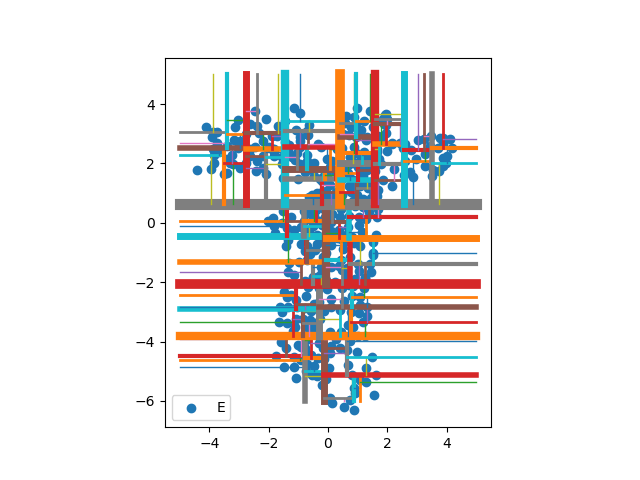
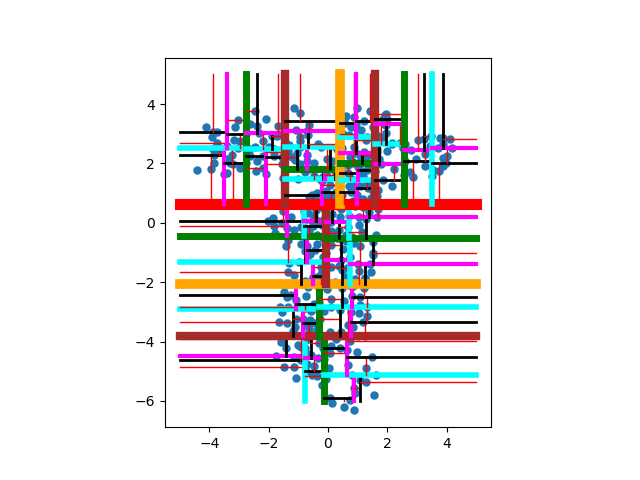
feat: Implement nearest neighbor search
Implement nearest neighbor search recursive method inside Tree class.
Test it on ecobici dataset.

Changed region(s): [[0.25, 0.125, 0.75, 0.875], [0.2812, 0.8438, 0.3125, 0.875]]

diff --git a/tree.py b/tree.py
@@ -202,3 +202,116 @@ class Tree:
 
         # once it finishes recursive calls, return subtree's root node
         return node
+
+    def __dist(self, point1: List[float], point2: List[float]) -> float:
+        """Compute Euclidean distance between two 2d-points.
+        ------------------------------------------------------------------------
+        Args:
+            point1: first point's coords
+            point2: second point's coords
+        Returns:
+            dist: Euclidean distance between point1 and point2"""
+        # cast to numpy arrays
+        point1, point2 = np.array(point1), np.array(point2)
+        dist = np.sqrt(np.sum((point1 - point2)**2)) # compute distance
+
+        return dist
+
+    def __min_dist_region(self, point: List[float], node: TreeNode):
+        """Function to compute minimum distance from a point to the rectangular
+        region defined by a 2d-tree splitting node.
+        ------------------------------------------------------------------------
+        Args:
+            point: (2,)-shape list containing point of interest xy coordinates
+            node: splitting node whose rectangular region is to be considered
+        Returns:
+            dist_min: minimum distance from point to region defined by node"""
+        if node == None:
+            return math.inf
+
+        xp, yp = point
+        xmin, xmax = node.xmin, node.xmax
+        ymin, ymax = node.ymin, node.ymax
+
+        xin_reg = (xmin <= xp and xp <= xmax) # is xp in [xmin, xmax]?
+        yin_reg = (ymin <= yp and yp <= ymax) # is yp in [ymin, ymax]?
+
+        if xin_reg:
+            dist_min = min(np.abs(yp - ymin), np.abs(yp - ymax))
+        elif yin_reg:
+            dist_min = min(np.abs(xp - xmin), np.abs(xp - xmax))
+        else: # point does not intersect neither [xmin, xmax] nor [ymin, ymax]
+            if xp < xmin:
+                if yp < ymin:
+                    dist_min = self.__dist([xp, yp], [xmin, ymin])
+                else:
+                    dist_min = self.__dist([xp, yp], [xmin, ymax])
+            else:
+                if yp < ymin:
+                    dist_min = self.__dist([xp, yp], [xmax, ymin])
+                else:
+                    dist_min = self.__dist([xp, yp], [xmax, ymax])
+
+        return dist_min
+
+    def nearest_neighbor(
+            self, 
+            query: List[float], 
+            node: TreeNode,
+            dmin: int = math.inf,
+            nn: TreeNode = None) -> TreeNode:
+        """Given a query node, find nearest neighbor among the subtree nodes.
+        ------------------------------------------------------------------------
+        Args:
+            query: list of query coords
+            node: subtree node
+            dmin: current nearest distance
+            nn: current nearest neighbor node
+        Returns:
+            nearest: nearest neighbor to query node in subtree rooted at node"""
+        # compute distance from query to node and update dmin if applicable
+        xq, yq = query
+        if node != None:
+            d = self.__dist([xq, yq], [node.x, node.y])
+            if d < dmin:
+                dmin = d
+                nn = node
+
+            # find where query is located with respect to subtree root node
+            if node.split_x == True:
+                if xq <= node.x: # explore left subtree
+                    dmin, nn = self.nearest_neighbor(query, node.left,
+                                                     dmin=dmin, nn=nn)
+                    # compute min distance to region defined by right node
+                    dist_region = self.__min_dist_region(query, node.right)
+                    if dist_region < dmin:
+                        # explore right subtree
+                        dmin, nn = self.nearest_neighbor(query, node.right,
+                                                         dmin=dmin, nn=nn)
+                else: # explore right subtree
+                    dmin, nn = self.nearest_neighbor(query, node.right, 
+                                                     dmin=dmin, nn=nn)
+                    dist_region = self.__min_dist_region(query, node.left)
+                    if dist_region < dmin:
+                        # explore left subtree
+                        dmin, nn = self.nearest_neighbor(query, node.left,
+                                                         dmin=dmin, nn=nn)
+            else:
+                if yq <= node.y:
+                    dmin, nn = self.nearest_neighbor(query, node.left,
+                                                     dmin=dmin, nn=nn)
+                    dist_region = self.__min_dist_region(query, node.right)
+                    if dist_region < dmin:
+                        # explore right subtree
+                        dmin, nn = self.nearest_neighbor(query, node.right,
+                                                         dmin=dmin, nn=nn)
+                else:
+                    dmin, nn = self.nearest_neighbor(query, node.right,
+                                                     dmin=dmin, nn=nn)
+                    dist_region = self.__min_dist_region(query, node.left)
+                    if dist_region < dmin:
+                        # explore left subtree
+                        dmin, nn = self.nearest_neighbor(query, node.left,
+                                                         dmin=dmin, nn=nn)
+
+        return dmin, nn

diff --git a/ecobici.py b/ecobici.py
@@ -3,7 +3,7 @@ import math
 import matplotlib.pyplot as plt
 import numpy as np
 import pandas as pd
-from typing import Tuple
+from typing import List, Tuple
 
 import tree as kd
 
@@ -24,25 +24,42 @@ def latlon_to_global(coords: np.ndarray) -> Tuple[float]:
 
     return x, y
 
-def draw_subtree(node: kd.TreeNode, s: int) -> None:
-    if node.left != None:
-        draw_subtree(node.left, s + 1)
-    # draw current node as a line segment
+colors = ['red', 'orange', 'brown', 'green', 'cyan', 'magenta', 'black', 'gray']
+
+def draw_subtree(node: kd.TreeNode, s: int, color: str) -> None:
     width = 8 - s
+    if node.left != None:
+        draw_subtree(node.left, s + 1, color=colors[(s + 1) % 7])
+    # draw current node as a line segment
     if width > 0:
         if node.split_x == True:
             plt.plot(2 * [node.x], [max(-6, node.ymin), min(node.ymax, 5)],
-                     linewidth=width)
+                     linewidth=width, color=color)
         else:
             plt.plot([max(-5, node.xmin), min(node.xmax, 5)], 2 * [node.y],
-                     linewidth=width)
+                     linewidth=width, color=color)
 
     if node.right != None:
-        draw_subtree(node.right, s + 1)
+        draw_subtree(node.right, s + 1, color=colors[(s + 1) % 7])
 
 def draw(tree: kd.Tree) -> None:
-    draw_subtree(tree.root, 0)
-                
+    draw_subtree(tree.root, 0, colors[0])
+
+
+def plot_random(n: int = 5) -> List[np.ndarray]:
+    """Plots random 2d-points sampled from a uniform distribution.
+    ----------------------------------------------------------------------------
+    Args:
+        n: number of random points
+    Returns:
+        points: List of two (n,)-shape arrays containing pairs of coords"""
+    xs = np.random.uniform(low=-4, high=4, size=n)            
+    ys = np.random.uniform(low=-6, high=5, size=n)
+
+    # plot points
+    plt.scatter(xs, ys, color='green', linewidth=0.05)
+
+    return [xs, ys]
 
 # read data
 df = pd.read_json('data/station_information.json')
@@ -56,13 +73,32 @@ lat_mean = np.average(station_pos[:, 1])
 locs_bike = np.apply_along_axis(latlon_to_global, 1, station_pos)
 
 # plot station positions
-plt.scatter(locs_bike[:, 0], locs_bike[:, 1])
+plt.figure()
+plt.scatter(locs_bike[:, 0], locs_bike[:, 1], linewidth=0.05)
 plt.gca().set_aspect('equal', adjustable='box')
 plt.legend('Ecobici Stations')
 plt.savefig('out/station_locations.png')
 
+# plot 2d-tree
+plt.figure()
 # create 2d-tree using ecobike data
 tree = kd.Tree(locs_bike[:, 0], locs_bike[:, 1])
-#plt.gca().set_aspect('equal', adjustable='box')
+plt.scatter(locs_bike[:, 0], locs_bike[:, 1], linewidth=0.05)
+plt.gca().set_aspect('equal', adjustable='box')
 draw(tree)
 plt.savefig('out/tree.png')
+
+# plot query points and their nearest neighbors
+plt.figure()
+plt.scatter(locs_bike[:, 0], locs_bike[:, 1], linewidth=0.05)
+plt.gca().set_aspect('equal', adjustable='box')
+points = plot_random(n=30)
+# compute and plot nearest neighbor for all random points
+nearest_neighbors = []
+for query in zip(points[0], points[1]):
+    _, nearest = tree.nearest_neighbor(query, tree.root)
+    # plot node and draw a line to the query point
+    plt.scatter([nearest.x], [nearest.y], color='red', linewidth=0.05)
+    plt.plot([nearest.x, query[0]], [nearest.y, query[1]], color='k')
+
+plt.savefig('out/nearest.png')
